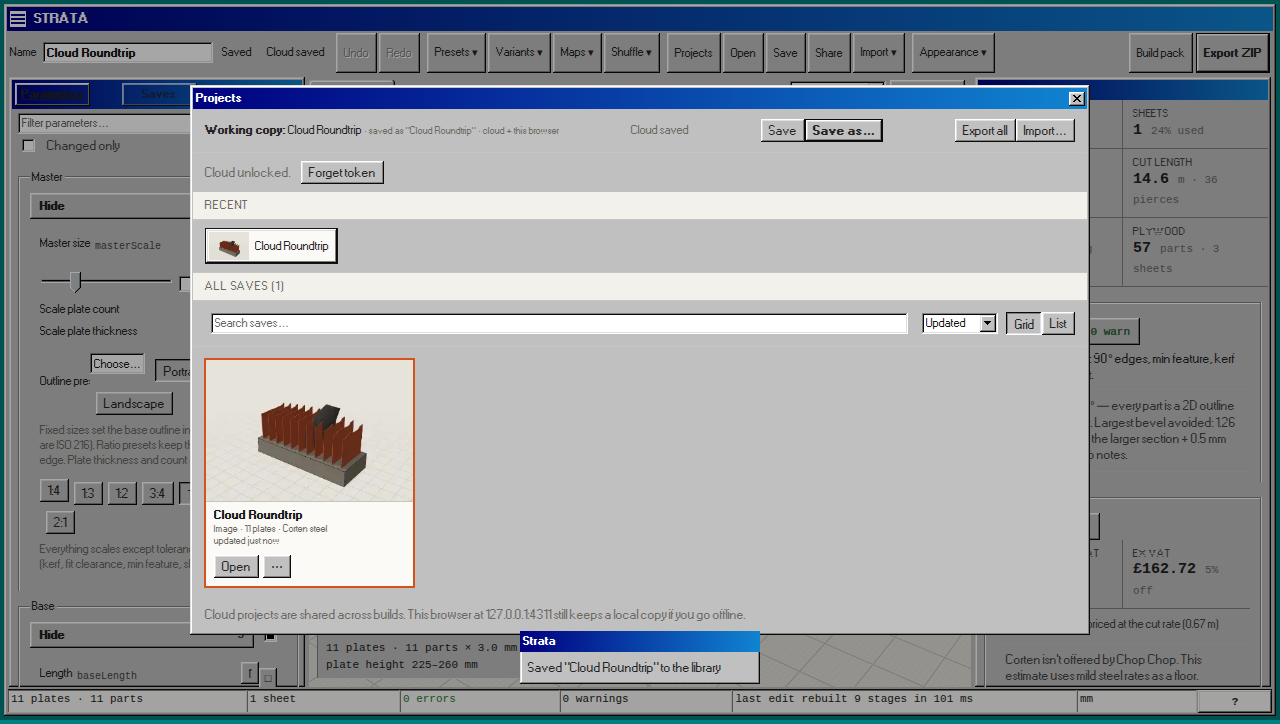
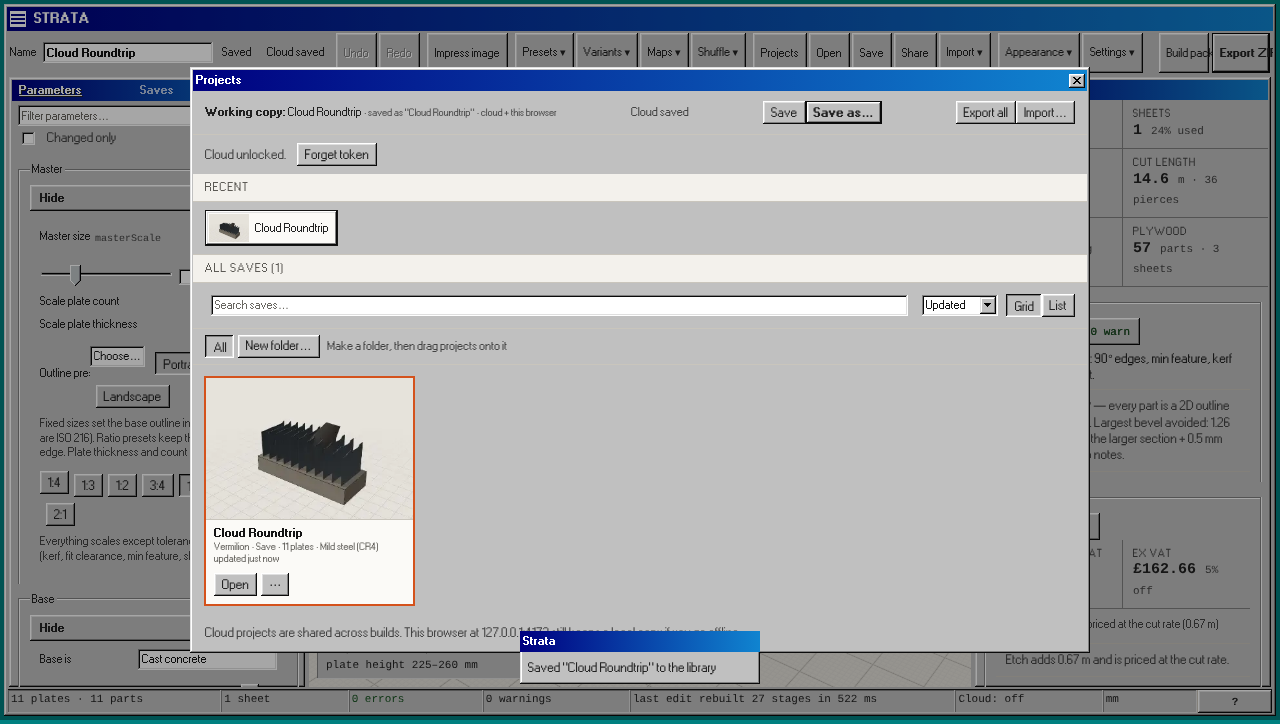
Projects window: drag saves onto folders, readable actions menu
- Folder bar is always shown, with counts, a New folder… button and a hint;
  drag a card or row onto a folder to put it there (Take out of folder
  appears while dragging a filed save).
- The ⋯ menu lists every folder under Move to folder, plus New folder… and
  Take out of folder, instead of a free-text prompt.
- The ⋯ menu is a silver Win98 menu in every theme (its text was dark on
  the dark Dusk/Ink panel), stays on screen and Escape closes only it.
- Card notes and section headings use the theme's muted colour.

Claude-Session: https://claude.ai/code/session_01SKozXMQtSy8LhcBWa6JJ4n

diff --git a/src/ui/LibraryBrowser.tsx b/src/ui/LibraryBrowser.tsx
@@ -1,14 +1,15 @@
-import { useEffect, useMemo, useState, type MouseEvent } from 'react';
+import { useEffect, useLayoutEffect, useMemo, useRef, useState, type DragEvent, type MouseEvent } from 'react';
 import { deserialize } from '../core/project';
 import { buildZip, download, exportFailureMessage, FitCheckExportError } from '../core/exporters';
 import { createPipeline } from '../core/pipeline';
 import { decodeProjectAssets } from '../state/assets';
-import { filterLibrary, foldersOf, sortLibrary, sourceLabel, type LibrarySort } from '../state/libraryDescribe';
+import { filterLibrary, folderCounts, foldersOf, sortLibrary, sourceLabel, type LibrarySort } from '../state/libraryDescribe';
 import { updatedAtOf, type LibraryMeta, type LibraryStore } from '../state/library';
 import { Loading } from './BusyWindow';
 
 const VIEW_KEY = 'strata.library.view';
 const SORT_KEY = 'strata.library.sort';
+const DRAG_TYPE = 'application/x-strata-save';
 
 function ago(t: number): string {
   const s = (Date.now() - t) / 1000;
@@ -67,6 +68,16 @@ export function LibraryBrowser({
   const [view, setView] = useState<'grid' | 'list'>(() => readPref(VIEW_KEY, compact ? 'list' : 'grid', ['grid', 'list']));
   const [sort, setSort] = useState<LibrarySort>(() => readPref(SORT_KEY, 'updated', ['updated', 'name', 'plates', 'kind']));
   const [menu, setMenu] = useState<{ m: LibraryMeta; x: number; y: number } | null>(null);
+  const menuRef = useRef<HTMLDivElement>(null);
+
+  // Keep the actions menu on screen near the bottom and right edges.
+  useLayoutEffect(() => {
+    const el = menuRef.current;
+    if (!el || !menu) return;
+    const r = el.getBoundingClientRect();
+    el.style.left = `${Math.max(4, Math.min(menu.x, window.innerWidth - r.width - 4))}px`;
+    el.style.top = `${Math.max(4, Math.min(menu.y, window.innerHeight - r.height - 4))}px`;
+  }, [menu]);
 
   useEffect(() => {
     try {
@@ -80,15 +91,28 @@ export function LibraryBrowser({
   useEffect(() => {
     if (!menu) return;
     const close = () => setMenu(null);
+    // Escape closes just the menu, not the Projects window behind it.
+    const onKey = (e: KeyboardEvent) => {
+      if (e.key !== 'Escape') return;
+      e.stopImmediatePropagation();
+      close();
+    };
     window.addEventListener('click', close);
     window.addEventListener('scroll', close, true);
+    window.addEventListener('keydown', onKey, true);
     return () => {
       window.removeEventListener('click', close);
       window.removeEventListener('scroll', close, true);
+      window.removeEventListener('keydown', onKey, true);
     };
   }, [menu]);
 
-  const folders = useMemo(() => (list ? foldersOf(list) : []), [list]);
+  // A folder made with New folder… lives here until something is put in it.
+  const [madeFolders, setMadeFolders] = useState<string[]>([]);
+  const [dragging, setDragging] = useState<LibraryMeta | null>(null);
+  const [dropOn, setDropOn] = useState<string | null>(null);
+  const folders = useMemo(() => (list ? foldersOf(list, madeFolders) : []), [list, madeFolders]);
+  const counts = useMemo(() => folderCounts(list ?? []), [list]);
   const shown = useMemo(() => (list ? sortLibrary(filterLibrary(list, q, folder), sort) : []), [list, q, folder, sort]);
 
   const onMenu = (e: MouseEvent, m: LibraryMeta) => {
@@ -122,11 +146,48 @@ export function LibraryBrowser({
     onPatch(m, { tags: tags.length ? tags : undefined });
   };
 
-  const doFolder = (m: LibraryMeta) => {
-    const next = window.prompt('Folder (blank to clear)', m.folder ?? '');
-    if (next == null) return;
-    onPatch(m, { folder: next.trim() || undefined });
+  const moveTo = (m: LibraryMeta, f: string | undefined) => {
+    if ((m.folder ?? undefined) === f) return;
+    onPatch(m, { folder: f });
   };
+
+  const newFolder = (m?: LibraryMeta) => {
+    const name = window.prompt(m ? `New folder for "${m.name}"` : 'New folder name')?.trim();
+    if (!name) return;
+    if (!folders.includes(name)) setMadeFolders((xs) => [...xs, name]);
+    if (m) moveTo(m, name);
+  };
+
+  // Drag a save onto a folder button to put it in that folder.
+  const dragProps = (m: LibraryMeta) => ({
+    draggable: !busy,
+    onDragStart: (e: DragEvent) => {
+      e.dataTransfer.setData(DRAG_TYPE, m.id);
+      e.dataTransfer.effectAllowed = 'move';
+      setDragging(m);
+    },
+    onDragEnd: () => {
+      setDragging(null);
+      setDropOn(null);
+    },
+  });
+  const dropProps = (key: string, f: string | undefined) => ({
+    onDragOver: (e: DragEvent) => {
+      if (!dragging) return;
+      e.preventDefault();
+      e.dataTransfer.dropEffect = 'move';
+      setDropOn(key);
+    },
+    onDragLeave: () => setDropOn((k) => (k === key ? null : k)),
+    onDrop: (e: DragEvent) => {
+      e.preventDefault();
+      const id = e.dataTransfer.getData(DRAG_TYPE);
+      const m = list?.find((x) => x.id === id) ?? dragging;
+      setDragging(null);
+      setDropOn(null);
+      if (m) moveTo(m, f);
+    },
+  });
 
   return (
     <div className={`lib-browser ${compact ? 'compact' : ''} ${view}`} data-testid="saves-browser">
@@ -155,18 +216,33 @@ export function LibraryBrowser({
           </button>
         </span>
       </div>
-      {folders.length > 0 && (
-        <div className="lib-folders" data-testid="saves-folders">
-          <button className={`btn sm ${!folder ? 'on' : ''}`} onClick={() => setFolder(null)}>
-            All
+      <div className={`lib-folders ${dragging ? 'dragging' : ''}`} data-testid="saves-folders" role="toolbar" aria-label="Folders">
+        <button className={`btn sm ${!folder ? 'on' : ''}`} onClick={() => setFolder(null)}>
+          All
+        </button>
+        {folders.map((f) => (
+          <button
+            key={f}
+            className={`btn sm lib-folder ${folder === f ? 'on' : ''} ${dropOn === f ? 'drop' : ''}`}
+            onClick={() => setFolder(f)}
+            title={`Show "${f}". Drag a project here to put it in this folder.`}
+            data-testid={`saves-folder-${f}`}
+            {...dropProps(f, f)}
+          >
+            📁 {f}
+            <small>{counts.get(f) ?? 0}</small>
           </button>
-          {folders.map((f) => (
-            <button key={f} className={`btn sm ${folder === f ? 'on' : ''}`} onClick={() => setFolder(f)}>
-              {f}
-            </button>
-          ))}
-        </div>
-      )}
+        ))}
+        {dragging?.folder && (
+          <button className={`btn sm lib-folder ${dropOn === '\0none' ? 'drop' : ''}`} data-testid="saves-folder-none" {...dropProps('\0none', undefined)}>
+            Take out of folder
+          </button>
+        )}
+        <button className="btn sm" disabled={busy} onClick={() => newFolder()} data-testid="saves-new-folder">
+          New folder…
+        </button>
+        <small className="lib-folder-hint">{dragging ? `Drop "${dragging.name}" on a folder` : folders.length ? 'Drag a project onto a folder to move it' : 'Make a folder, then drag projects onto it'}</small>
+      </div>
       <div className="lib-body">
         {!list ? (
           <Loading label="Loading your projects…" />
@@ -177,7 +253,8 @@ export function LibraryBrowser({
             {shown.map((m) => (
               <div
                 key={m.id}
-                className={`lib-line ${currentId === m.id ? 'on' : ''}`}
+                className={`lib-line ${currentId === m.id ? 'on' : ''} ${dragging?.id === m.id ? 'dragged' : ''}`}
+                {...dragProps(m)}
                 data-testid={`saves-row-${m.id}`}
                 data-source={m.source ?? ''}
                 onContextMenu={(e) => onMenu(e, m)}
@@ -199,7 +276,8 @@ export function LibraryBrowser({
             {shown.map((m) => (
               <div
                 key={m.id}
-                className={`lib-card ${currentId === m.id ? 'on' : ''}`}
+                className={`lib-card ${currentId === m.id ? 'on' : ''} ${dragging?.id === m.id ? 'dragged' : ''}`}
+                {...dragProps(m)}
                 data-testid={`saves-card-${m.id}`}
                 data-source={m.source ?? ''}
                 onContextMenu={(e) => onMenu(e, m)}
@@ -228,7 +306,7 @@ export function LibraryBrowser({
         )}
       </div>
       {menu && (
-        <div className="lib-menu" style={{ left: menu.x, top: menu.y }} role="menu" data-testid="saves-menu" onClick={(e) => e.stopPropagation()}>
+        <div ref={menuRef} className="lib-menu" style={{ left: menu.x, top: menu.y }} role="menu" data-testid="saves-menu" onClick={(e) => e.stopPropagation()}>
           <button role="menuitem" onClick={() => (setMenu(null), onOpen(menu.m))}>
             Open
           </button>
@@ -241,9 +319,23 @@ export function LibraryBrowser({
           <button role="menuitem" onClick={() => (setMenu(null), doTags(menu.m))}>
             Tags…
           </button>
-          <button role="menuitem" onClick={() => (setMenu(null), doFolder(menu.m))}>
-            Folder…
+          <div className="lib-menu-head" role="presentation">
+            Move to folder
+          </div>
+          {folders.map((f) => (
+            <button key={f} role="menuitemradio" aria-checked={menu.m.folder === f} onClick={() => (setMenu(null), moveTo(menu.m, f))}>
+              <span className="lib-menu-mark">{menu.m.folder === f ? '✓' : ''}</span>📁 {f}
+            </button>
+          ))}
+          <button role="menuitem" onClick={() => (setMenu(null), newFolder(menu.m))}>
+            New folder…
           </button>
+          {menu.m.folder && (
+            <button role="menuitem" onClick={() => (setMenu(null), moveTo(menu.m, undefined))}>
+              Take out of folder
+            </button>
+          )}
+          <hr className="lib-menu-sep" />
           <button
             role="menuitem"
             onClick={() => {

diff --git a/src/styles.css b/src/styles.css
@@ -2722,25 +2722,43 @@ canvas.thumb {
 .lib-menu {
   position: fixed;
   z-index: 80;
-  min-width: 160px;
-  background: var(--panel);
-  border: 1px solid var(--line);
-  box-shadow: 2px 2px 0 var(--line-soft);
+  min-width: 180px;
+  max-height: calc(100vh - 8px);
+  overflow-y: auto;
   display: flex;
   flex-direction: column;
   padding: 2px;
 }
-.lib-menu button {
-  border: 0;
-  background: transparent;
-  text-align: left;
-  padding: 4px 10px;
-  cursor: pointer;
-  color: inherit;
+.lib-folders .lib-folder {
+  display: inline-flex;
+  align-items: center;
+  gap: 6px;
 }
-.lib-menu button:hover {
+.lib-folders .lib-folder small {
+  opacity: 0.7;
+}
+.lib-folders.dragging .lib-folder {
+  outline: 1px dashed var(--accent);
+  outline-offset: 1px;
+}
+.lib-folders .lib-folder.drop {
   background: var(--accent);
   color: var(--accent-fg, #fff);
+  text-shadow: none;
+}
+.lib-folder-hint {
+  align-self: center;
+  margin-left: 4px;
+  color: var(--muted);
+  font-size: 11px;
+}
+.lib-card[draggable='true'],
+.lib-line[draggable='true'] {
+  cursor: grab;
+}
+.lib-card.dragged,
+.lib-line.dragged {
+  opacity: 0.45;
 }
 .lib-browser.compact .lib-grid {
   grid-template-columns: 1fr;

diff --git a/src/win98.css b/src/win98.css
@@ -261,6 +261,52 @@ ul.tree-view ul button:not(.btn).on {
   color: inherit;
 }
 
+/* Projects window actions menu: a silver Win98 menu in every theme, so its text never sits dark on a dark panel. */
+.lib-menu {
+  background: #c0c0c0;
+  color: #222;
+  box-shadow: inset -1px -1px #0a0a0a, inset 1px 1px #dfdfdf, inset -2px -2px #808080, inset 2px 2px #fff;
+}
+.lib-menu button {
+  background: transparent;
+  box-shadow: none;
+  color: #222;
+  display: flex;
+  align-items: center;
+  justify-content: flex-start;
+  min-height: 0;
+  min-width: 0;
+  padding: 3px 10px 3px 22px;
+  position: relative;
+  text-align: left;
+  text-shadow: none;
+  width: 100%;
+}
+.lib-menu button:hover,
+.lib-menu button:focus {
+  background: #000080;
+  color: #fff;
+  outline: none;
+  text-shadow: none;
+}
+.lib-menu-mark {
+  position: absolute;
+  left: 4px;
+  width: 16px;
+  text-align: center;
+}
+.lib-menu-head {
+  padding: 4px 6px 2px 20px;
+  color: #555;
+  font-size: 11px;
+}
+.lib-menu-sep {
+  border: none;
+  border-top: 1px solid #808080;
+  border-bottom: 1px solid #fff;
+  margin: 3px 2px;
+}
+
 /* Sunken fields. Strata's flat borders would cover 98.css. */
 input.numbox,
 input.inp,

diff --git a/test/library-describe.test.ts b/test/library-describe.test.ts
@@ -1,6 +1,6 @@
 import { describe, expect, it } from 'vitest';
 import { newProject } from '../src/core/project';
-import { filterLibrary, foldersOf, libraryThumbFromProject, plateCountOf, projectKind, rebuildPlateCount, sortLibrary, sourceLabel } from '../src/state/libraryDescribe';
+import { filterLibrary, folderCounts, foldersOf, libraryThumbFromProject, plateCountOf, projectKind, rebuildPlateCount, sortLibrary, sourceLabel } from '../src/state/libraryDescribe';
 import { memoryLibrary, openEntry, saveAs, type LibraryMeta } from '../src/state/library';
 import { recordLibrarySave } from '../src/state/recordLibrary';
 
@@ -34,6 +34,8 @@ describe('library describe', () => {
     expect(filterLibrary(list, '', 'Show').map((m) => m.id)).toEqual(['a']);
     expect(sortLibrary(list, 'plates').map((m) => m.id)).toEqual(['a', 'b']);
     expect(foldersOf(list)).toEqual(['Show']);
+    expect(foldersOf(list, ['Candles', 'Show', ' '])).toEqual(['Candles', 'Show']);
+    expect([...folderCounts(list)]).toEqual([['Show', 1]]);
   });
 
   it('builds a distinct thumbnail from each project, not the live canvas', () => {

diff --git a/src/state/libraryDescribe.ts b/src/state/libraryDescribe.ts
@@ -100,6 +100,13 @@ export function sortLibrary(list: LibraryMeta[], by: LibrarySort): LibraryMeta[]
   return out.sort((a, b) => (b.updatedAt ?? b.savedAt) - (a.updatedAt ?? a.savedAt));
 }
 
-export function foldersOf(list: LibraryMeta[]): string[] {
-  return [...new Set(list.map((m) => m.folder).filter((x): x is string => !!x?.trim()))].sort((a, b) => a.localeCompare(b));
+export function foldersOf(list: LibraryMeta[], extra: string[] = []): string[] {
+  return [...new Set([...list.map((m) => m.folder), ...extra].filter((x): x is string => !!x?.trim()))].sort((a, b) => a.localeCompare(b));
+}
+
+/** How many saves sit in each folder. */
+export function folderCounts(list: LibraryMeta[]): Map<string, number> {
+  const out = new Map<string, number>();
+  for (const m of list) if (m.folder?.trim()) out.set(m.folder, (out.get(m.folder) ?? 0) + 1);
+  return out;
 }

diff --git a/src/form-chrome.css b/src/form-chrome.css
@@ -283,3 +283,13 @@ table.tbl tbody tr.highlighted td {
 .status-bar-field {
   color: var(--chrome-fg);
 }
+
+/* Projects window: the saves cards and the section headings are themed panels inside the
+   silver window, so their notes take the theme's own --muted, not the silver one. */
+.pm.lib .lib-head,
+.pm.lib .lib-card,
+.pm.lib .lib-line,
+.saves-panel .lib-card,
+.saves-panel .lib-line {
+  --muted: var(--theme-muted);
+}
